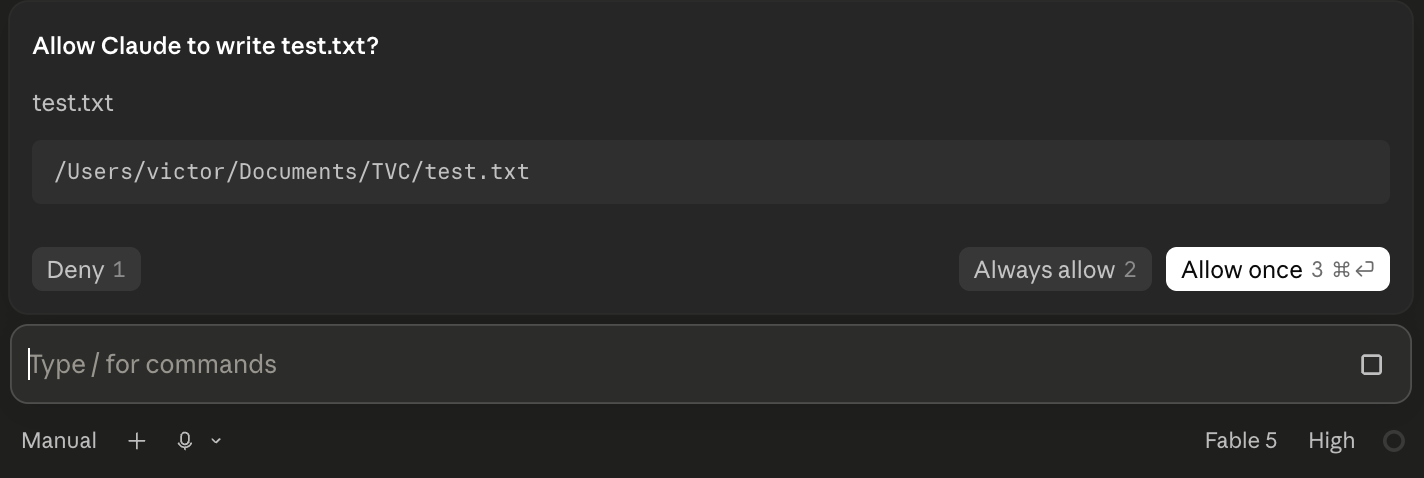
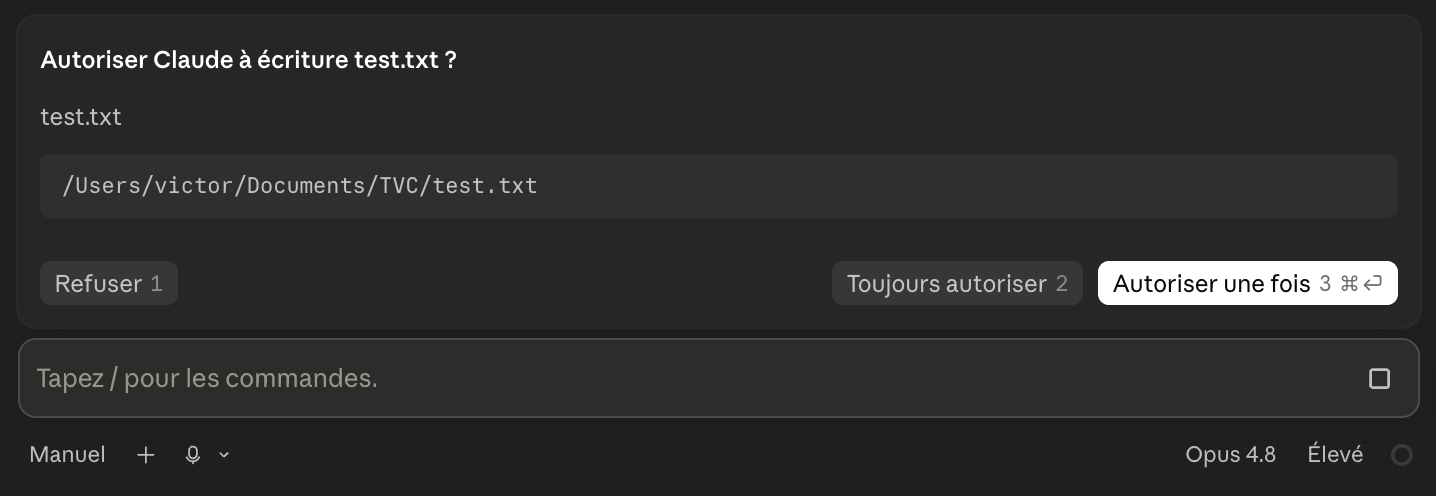
content: l'interface citée en français d'abord (l'app suit la langue du Mac)
Victor a basculé son app en français et capturé la fenêtre de
permission : tout y est traduit (« Autoriser Claude à écriture
test.txt ? », boutons Refuser / Toujours autoriser / Autoriser une
fois). Le public du parcours est français, son app le sera donc aussi :
- la capture de la 1.2 remplacée par la version française
- les boutons de permission cités en français d'abord, équivalents
  anglais en parenthèse (1.2 et 3.4 du module 1)
- « Nouvelle session » en premier au module 2 (2 occurrences)
- les mentions exactes du Terminal et de GitHub restent en anglais :
  ces outils-là ne sont pas traduits

diff --git a/src/lib/module-faire-un-site.ts b/src/lib/module-faire-un-site.ts
@@ -144,10 +144,10 @@ export const etapesDetail: EtapeDetail[] = [
         prompt:
           "Fais-moi un site pour [ton sujet], où les gens peuvent [ce qu'ils peuvent y faire]. Ce serait bien qu'on puisse aussi [une petite fonctionnalité]. Construis-le avec Next.js, avec le contenu visible directement dans le HTML de la page (rendu côté serveur). Et dis-moi quand je pourrai voir la page dans mon navigateur.",
         ceQueTuDoisVoir:
-          "Avant d'agir, Claude Code te demande souvent la permission : une petite fenêtre en anglais (capture ci-dessous) avec l'action qu'il veut lancer et trois boutons, « Allow once » (autoriser une fois), « Always allow » (toujours autoriser) et « Deny » (refuser). C'est normal, et c'est toi le chef : clique « Allow once » pour le laisser travailler. Ensuite, du texte se met à défiler tout seul : l'IA t'explique ce qu'elle fait et crée des fichiers. Ça peut prendre plusieurs minutes, parfois cinq à dix la première fois (elle télécharge tout ce qu'il faut) : tant que ça bouge, c'est bon signe. Ne ferme pas la fenêtre pendant ce temps.",
+          "Avant d'agir, Claude Code te demande souvent la permission : une petite fenêtre (capture ci-dessous) avec l'action qu'il veut lancer et trois boutons, « Autoriser une fois », « Toujours autoriser » et « Refuser » (« Allow once », « Always allow » et « Deny » si ton app est en anglais). C'est normal, et c'est toi le chef : clique « Autoriser une fois » pour le laisser travailler. Ensuite, du texte se met à défiler tout seul : l'IA t'explique ce qu'elle fait et crée des fichiers. Ça peut prendre plusieurs minutes, parfois cinq à dix la première fois (elle télécharge tout ce qu'il faut) : tant que ça bouge, c'est bon signe. Ne ferme pas la fenêtre pendant ce temps.",
         visuel: {
           src: "/module/1-2-allow-deny.png",
-          alt: "La fenêtre de permission de Claude Code : « Allow Claude to write test.txt? », le fichier concerné, et les boutons Deny, Always allow et Allow once.",
+          alt: "La fenêtre de permission de Claude Code : « Autoriser Claude à écriture test.txt ? », le fichier concerné, et les boutons Refuser, Toujours autoriser et Autoriser une fois.",
           legende: "Chez moi : Claude Code demande la permission avant d'écrire un fichier. Il dit exactement ce qu'il veut faire, et il attend ton feu vert.",
         },
         siCaBloque:
@@ -368,7 +368,7 @@ export const etapesDetail: EtapeDetail[] = [
         ceQueTuDoisVoir:
           "Ça va enchaîner tout seul pendant plusieurs minutes : du texte défile, l'IA teste, corrige, re-teste. Tu sauras que c'est fini quand le texte arrête de défiler et que l'IA te fait un petit résumé du genre « tout est propre et fonctionnel ». À ce moment-là, la main te revient et tu peux réécrire dans la fenêtre. Tant que ça défile, c'est qu'elle travaille encore, laisse-la.",
         siCaBloque:
-          "Si Agent Browser dit qu'il n'arrive pas à ouvrir ton site ou reste bloqué à « j'attends la page », c'est presque toujours que ton site ne tourne plus en local : écris « relance mon site en local avant de tester avec Agent Browser », puis redemande la boucle. Si Claude Code ne connaît pas encore le skill Agent Browser (ou Impeccable), installe-le : les deux skills à copier sont juste au-dessus, dans cette sous-étape, et tant que les deux ne sont pas installés, la boucle ne peut pas tourner. Pour Agent Browser, il finit son installation tout seul au premier usage : il récupère alors son propre navigateur, ce qui peut prendre plusieurs minutes sans grand-chose à l'écran, c'est prévu. Et pour que la boucle tourne vraiment toute seule, quand Claude Code demande une permission, clique « Always allow » (toujours autoriser) : sinon tu devras cliquer « Allow once » à chaque tour. Si la boucle repasse sans fin sur les mêmes corrections au-delà de la durée annoncée, arrête avec Échap puis écris « fais un dernier passage et arrête-toi, dis-moi ce qui reste ». Une boucle consomme pas mal : si Claude Code s'arrête en disant que tu as atteint ta limite d'utilisation, ce n'est pas un bug. Attends qu'elle se réinitialise (l'app te dit quand) et reprends là où tu en étais. Pas besoin de passer à l'offre Max juste pour cet exercice.",
+          "Si Agent Browser dit qu'il n'arrive pas à ouvrir ton site ou reste bloqué à « j'attends la page », c'est presque toujours que ton site ne tourne plus en local : écris « relance mon site en local avant de tester avec Agent Browser », puis redemande la boucle. Si Claude Code ne connaît pas encore le skill Agent Browser (ou Impeccable), installe-le : les deux skills à copier sont juste au-dessus, dans cette sous-étape, et tant que les deux ne sont pas installés, la boucle ne peut pas tourner. Pour Agent Browser, il finit son installation tout seul au premier usage : il récupère alors son propre navigateur, ce qui peut prendre plusieurs minutes sans grand-chose à l'écran, c'est prévu. Et pour que la boucle tourne vraiment toute seule, quand Claude Code demande une permission, clique « Toujours autoriser » (« Always allow » en anglais) : sinon tu devras cliquer « Autoriser une fois » à chaque tour. Si la boucle repasse sans fin sur les mêmes corrections au-delà de la durée annoncée, arrête avec Échap puis écris « fais un dernier passage et arrête-toi, dis-moi ce qui reste ». Une boucle consomme pas mal : si Claude Code s'arrête en disant que tu as atteint ta limite d'utilisation, ce n'est pas un bug. Attends qu'elle se réinitialise (l'app te dit quand) et reprends là où tu en étais. Pas besoin de passer à l'offre Max juste pour cet exercice.",
         monExemple: "C'était ma toute première loop, et franchement c'était cool. Tu expliques à Claude Code de faire tourner les deux skills ensemble, et il enchaîne vérif, test et correction tout seul. Là tu comprends la puissance du truc.",
         conseil: "Copie-colle le prompt ci-dessus tel quel dans Claude Code : tu n'as plus qu'à le laisser boucler.",
       },

diff --git a/src/lib/module-creer-un-skill.ts b/src/lib/module-creer-un-skill.ts
@@ -272,7 +272,7 @@ Et si Claude Code s'arrête en disant que tu as atteint ta limite d'utilisation,
           "La description, c'est ce qui dit à l'IA QUAND utiliser le skill. Si elle est floue, l'IA ne le déclenche pas. Tu n'ouvres rien toi-même : tu testes, et si besoin tu demandes à Claude Code de la retravailler, jusqu'à ce que ça marche.",
         attendu: "Un skill qui se déclenche tout seul quand la situation s'y prête.",
         pasAPas: [
-          "Ouvre une NOUVELLE conversation dans Claude Code : son bouton « New session » (« Nouvelle session » si ton app est en français), pas besoin de fermer l'app. C'est le seul vrai test : dans la conversation où vous avez créé le skill, l'IA l'a en tête de toute façon.",
+          "Ouvre une NOUVELLE conversation dans Claude Code : son bouton « Nouvelle session » (« New session » si ton app est en anglais), pas besoin de fermer l'app. C'est le seul vrai test : dans la conversation où vous avez créé le skill, l'IA l'a en tête de toute façon.",
           "Refais ta demande normale, sans taper de /. Si la ligne au nom de ton skill apparaît (déplie la ligne-résumé des actions si besoin), c'est gagné : ta description est bonne, passe à la sous-étape suivante.",
           "Il n'est pas parti ? Envoie le prompt ci-dessous, puis reteste dans une nouvelle conversation. C'est normal de s'y reprendre à deux ou trois fois.",
         ],
@@ -306,7 +306,7 @@ Et si Claude Code s'arrête en disant que tu as atteint ta limite d'utilisation,
         prompt:
           "Utilise le skill improve-skill-tools pour passer mon skill [nom] en revue et propose-moi des améliorations, sur le fond et sur la technique. Résume-moi la revue en français simple.",
         ceQueTuDoisVoir:
-          "L'Improve lit ton skill et te répond une liste de remarques numérotées : ce qui est déjà bien, et ce qui gagnerait à être plus clair, comme la description, le format ou une instruction floue. Il peut aussi ranger sa revue dans un dossier « plans » de ton projet : c'est son carnet de notes, tu n'as pas à l'ouvrir. S'il te demande « quels constats veux-tu transformer en plans ? », réponds simplement « aucun, la liste me suffit ». Lui ne change rien, c'est son rôle de relecteur. Pour appliquer, copie d'abord les points qui te parlent, puis ouvre une NOUVELLE conversation (le bouton « New session », comme à la sous-étape précédente) et colle-les à Claude Code : « applique ces points de la revue de mon skill [nom] ». Le copier-coller est important : une conversation neuve ne se souvient pas de l'ancienne. Et tant que le relecteur est chargé dans la conversation en cours, il refusera de modifier, c'est voulu. Tu n'es pas obligé de tout prendre.",
+          "L'Improve lit ton skill et te répond une liste de remarques numérotées : ce qui est déjà bien, et ce qui gagnerait à être plus clair, comme la description, le format ou une instruction floue. Il peut aussi ranger sa revue dans un dossier « plans » de ton projet : c'est son carnet de notes, tu n'as pas à l'ouvrir. S'il te demande « quels constats veux-tu transformer en plans ? », réponds simplement « aucun, la liste me suffit ». Lui ne change rien, c'est son rôle de relecteur. Pour appliquer, copie d'abord les points qui te parlent, puis ouvre une NOUVELLE conversation (le bouton « Nouvelle session », comme à la sous-étape précédente) et colle-les à Claude Code : « applique ces points de la revue de mon skill [nom] ». Le copier-coller est important : une conversation neuve ne se souvient pas de l'ancienne. Et tant que le relecteur est chargé dans la conversation en cours, il refusera de modifier, c'est voulu. Tu n'es pas obligé de tout prendre.",
         visuel: {
           src: "/module/skill-3-3-improve.png",
           alt: "La sortie de l'Improve : un tableau de constats numérotés avec pour chacun une catégorie, un impact, un effort et une preuve.",